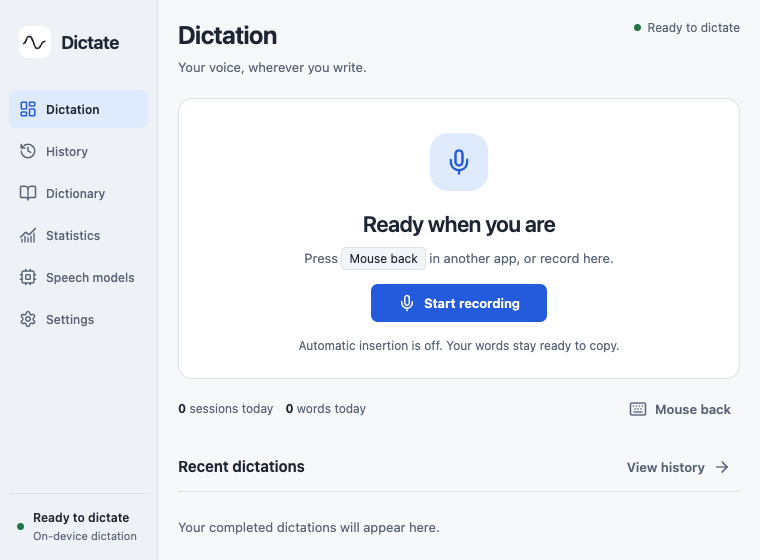
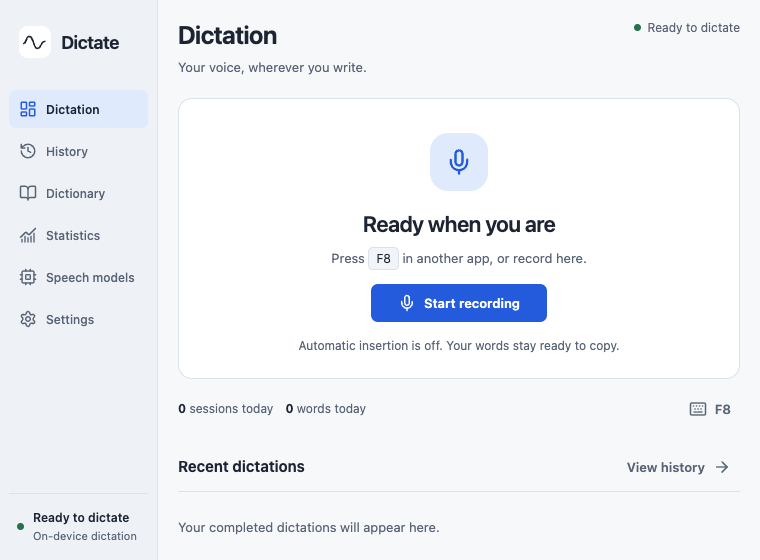
Record Windows beta 5 verification and refresh UI regression checks

Changed region(s): [[0.3934, 0.4554, 0.8171, 0.4857], [0.8171, 0.6982, 0.9684, 0.7589]]

diff --git a/docs/evidence/windows-beta5-validation.md b/docs/evidence/windows-beta5-validation.md
@@ -1,0 +1,62 @@
+# Windows beta 5 validation
+
+This update redesigns the Windows interface, adds dedicated keyboard and mouse
+shortcuts, and adds CPU NVIDIA Parakeet alongside Whisper. Native Mac UI code is
+unchanged. Linux remains withdrawn. No paid services, signing, or API is used.
+
+## Evidence boundaries
+
+- User supplied screenshots prove beta 4 could start in their Windows Sandbox;
+  they are the visual anti-reference, not beta 5 acceptance results.
+- [UI captures and interaction results](ui/windows-beta5/ui-check.json) use
+  Chromium on macOS with synthetic Tauri IPC. They cover all six destinations,
+  setup, light/dark themes, 1120×750 and 760×560 content viewports, keyboard/chord
+  capture, mouse presets, setting switches/radios, save-failure draft/focus
+  retention, dictionary drafts, record and copy recovery.
+- [Independent finish verdict](ui/windows-beta5/finish-verdict.md) scored all
+  three requested corrections resolved. It is a browser/source UI verdict, not
+  native Windows microphone, font-rasterization, hook, or insertion certification.
+- Windows public CI runs the real CPU adapters against the repository's synthetic
+  16 kHz speech fixture. It checks Whisper Tiny and Parakeet separately within
+  the integration test, after verifying every downloaded component by SHA-256.
+- The release gate extracts the NSIS installer, checks x64 binaries and normal/
+  delayed C++ imports against its bundled DLLs, checks notices, and starts the
+  extracted app for eight seconds. This is a startup check, not a microphone test.
+
+## Packaging
+
+The first candidate exposed an MSVC static/dynamic runtime mismatch in upstream
+ONNX static binaries. It was not released. The final implementation isolates
+ONNX in Microsoft's pinned CPU runtime DLL and bundles its app-local C++ DLLs
+from the existing MSVC build tools. Rust and Whisper retain static runtime
+linking. Users do not need a C++ redistributable installer, Python, CUDA, an
+NVIDIA GPU, or developer tools. ONNX loads from an absolute packaged path;
+its dependencies exclude the current working directory from DLL search.
+
+Parakeet v3 uses the quantized ONNX conversion at revision
+8f23f0c03c8761650bdb5b40aaf3e40d2c15f1ce, totaling 670,479,942 bytes. The original
+NVIDIA weights and conversion are attributed under CC BY 4.0. Tiny remains the
+78 MB quick setup choice. Parakeet recommends 8 GB RAM and checks cancellation
+between at most 30-second chunks; word boundaries between chunks can lose context.
+
+## Device acceptance still required
+
+In Windows Sandbox, enable microphone input and allocate enough memory for the
+chosen model. Quit beta 4 before installing beta 5. Test Right Ctrl hold/release
+in Notepad; then test a custom chord, a mouse side button, and press-to-toggle.
+Check that one transcript appears, the original clipboard survives insertion,
+and disabling insertion leaves text ready to copy. Restart offline and repeat.
+Physical keyboard/mouse and microphone results remain user tests.
+
+This release remains unsigned. It does not remove Smart App Control restrictions.
+The website explains that SAC has no per-app Run anyway exception.
+
+## Reproduction
+
+Build instructions are in [Desktop/README.md](../../Desktop/README.md).
+`Desktop/tests/ui-smoke.cjs` (also available through the existing
+`Desktop/scripts/check-ui.cjs` entry point) needs Playwright/Chromium and the
+Desktop Vite server. `PLAYWRIGHT_MODULE`, `BROWSER_EXECUTABLE`, and
+`DICTATE_PREVIEW_URL` allow local tool paths without adding production dependencies.
+The workflow stages runtime DLLs, prepares checksum-verified speech models,
+and invokes `recognition_smoke` through `Scripts/run-windows-test.ps1`.

diff --git a/docs/evidence/portability-validation.md b/docs/evidence/portability-validation.md
@@ -1,4 +1,6 @@
-# Community beta validation — v1.1.0-beta.3
+# Community beta validation — historical v1.1.0-beta.3
+
+For the current Windows redesign and runtime packaging, see [beta 5 validation](windows-beta5-validation.md). The Linux and earlier installer evidence below is historical.
 
 **Subsequent user testing (September 8):** Linux support is paused and has been removed from current source and downloads. A Windows 11 user supplied a Smart App Control dialog blocking the beta installer because the publisher could not be verified. Installation on that device failed before app startup; microphone/recognition/editor acceptance there remains untested. Automated build success below does not resolve this distribution blocker. See [current installation limitations](../INSTALLATION.md#windows-beta).
 
